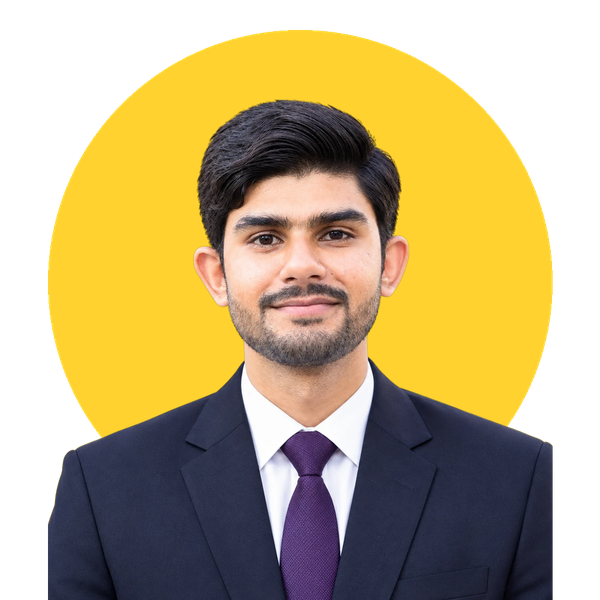
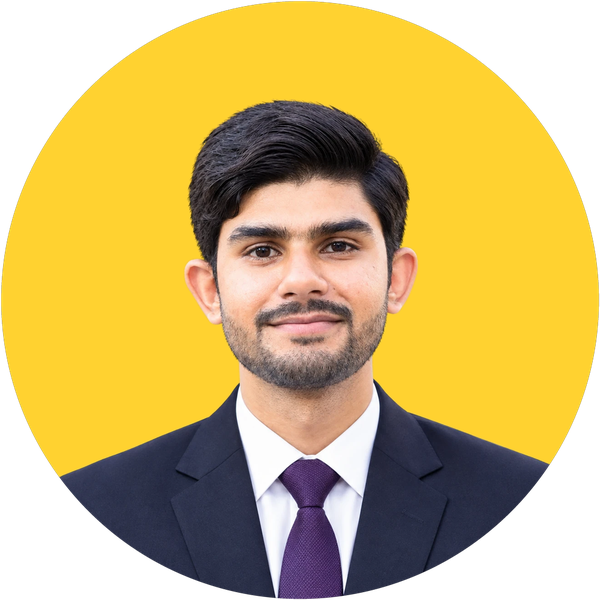
Fit profile photo fully inside the yellow circle
Claude-Session: https://claude.ai/code/session_01FUWcVAtG6YUXqvKhP7JXtd

diff --git a/index.html b/index.html
@@ -91,7 +91,7 @@
 
       <div class="hero-visual reveal">
         <div class="portrait">
-          <img src="assets/hamza.webp?v=2" alt="Hamza Mushtaq, WordPress and Shopify developer" width="500" height="500" fetchpriority="high">
+          <img src="assets/hamza.webp?v=3" alt="Hamza Mushtaq, WordPress and Shopify developer" width="500" height="500" fetchpriority="high">
         </div>
         <div class="float-card fc-1">
           <strong>150+</strong><span>Websites delivered</span>
